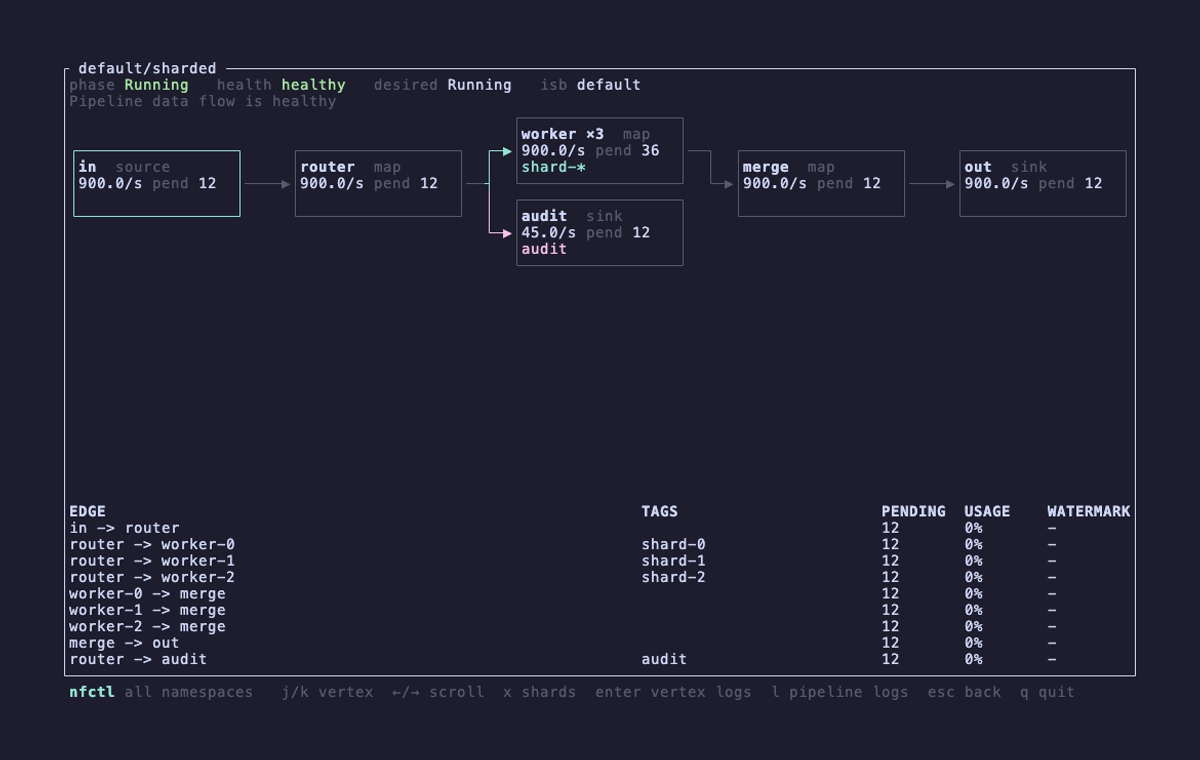
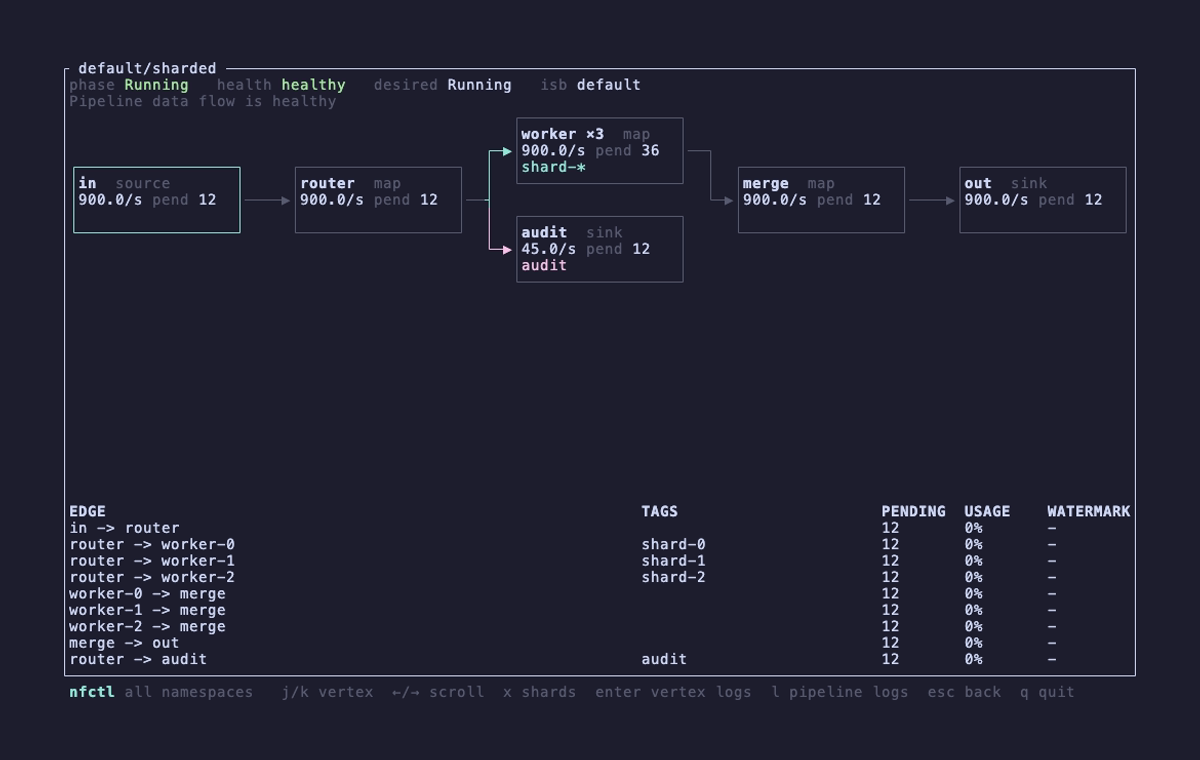
feat(graph,tui): one bus per source
Every branch out of a card leaves one column through its own junction,
whatever its colour; the bus takes the colour of the branch that reaches
furthest. Symmetric, and one junction on the source row.

diff --git a/crates/nfctl-tui/src/cards.rs b/crates/nfctl-tui/src/cards.rs
@@ -112,9 +112,10 @@ struct Canvas {
     dx: i32,
     cells: Vec<u8>,
     ink: Vec<Ink>,
-    /// Colour of the first edge to run vertically through a cell: where a
-    /// fork or crossing mixes colours, the edge that turns there wins.
-    turn: Vec<Ink>,
+    /// Colour of the longest vertical run through a cell, with its length:
+    /// where a bus mixes colours, the branch that reaches furthest wins, so a
+    /// trunk reads as one colour from the source to its far end.
+    turn: Vec<(Ink, i32)>,
     heads: Vec<Option<Ink>>,
 }
 
@@ -127,7 +128,7 @@ impl Canvas {
             dx,
             cells: vec![0; w * h],
             ink: vec![Ink::None; w * h],
-            turn: vec![Ink::None; w * h],
+            turn: vec![(Ink::None, 0); w * h],
             heads: vec![None; w * h],
         }
     }
@@ -137,7 +138,7 @@ impl Canvas {
         (x < self.w && y < self.h).then_some(y * self.w + x)
     }
 
-    fn set(&mut self, x: i32, y: i32, bits: u8, colour: Option<EdgeColour>) {
+    fn set(&mut self, x: i32, y: i32, bits: u8, colour: Option<EdgeColour>, reach: i32) {
         if let Some(i) = self.idx(x, y) {
             self.cells[i] |= bits;
             self.ink[i] = match self.ink[i] {
@@ -145,8 +146,8 @@ impl Canvas {
                 Ink::One(c) if c == colour => Ink::One(c),
                 _ => Ink::Mixed,
             };
-            if bits & (U | D) != 0 && self.turn[i] == Ink::None {
-                self.turn[i] = Ink::One(colour);
+            if bits & (U | D) != 0 && reach > self.turn[i].1 {
+                self.turn[i] = (Ink::One(colour), reach);
             }
         }
     }
@@ -165,7 +166,7 @@ impl Canvas {
         let (a, b) = (x0.min(x1), x0.max(x1));
         for x in a..=b {
             let bits = if x > a { L } else { 0 } | if x < b { R } else { 0 };
-            self.set(x, y, bits, colour);
+            self.set(x, y, bits, colour, 0);
         }
     }
 
@@ -173,7 +174,7 @@ impl Canvas {
         let (a, b) = (y0.min(y1), y0.max(y1));
         for y in a..=b {
             let bits = if y > a { U } else { 0 } | if y < b { D } else { 0 };
-            self.set(x, y, bits, colour);
+            self.set(x, y, bits, colour, b - a + 1);
         }
     }
 
@@ -221,7 +222,7 @@ impl Canvas {
                     let (ch, st) = if let Some(ink) = self.heads[i] {
                         ('▶', paint(ink))
                     } else {
-                        let ink = match (self.ink[i], self.turn[i]) {
+                        let ink = match (self.ink[i], self.turn[i].0) {
                             (Ink::Mixed, Ink::One(c)) => Ink::One(c),
                             (ink, _) => ink,
                         };

diff --git a/crates/nfctl-graph/src/layout/tracks.rs b/crates/nfctl-graph/src/layout/tracks.rs
@@ -1,10 +1,9 @@
 //! Pack the vertical runs in one gap onto tracks: two runs share a track when
-//! they do not overlap, or when they share a source or a target *and* a
-//! colour, so a tagged fan-out leaves as parallel coloured lines rather than
-//! one grey trunk. Then order the
+//! they do not overlap, or when they share a source or a target, so a fan-out
+//! is one bus with a junction per branch. Then order the
 //! tracks left to right so horizontals cross as few verticals as possible.
 
-use super::{EdgeColour, EdgeId};
+use super::EdgeId;
 
 #[derive(Debug, Clone, Copy)]
 pub(crate) struct Span {
@@ -15,7 +14,6 @@ pub(crate) struct Span {
     /// Row of the horizontal arriving from the left, and leaving to the right.
     pub y_in: i32,
     pub y_out: i32,
-    pub colour: Option<EdgeColour>,
     pub src: u32,
     pub dst: u32,
 }
@@ -33,13 +31,11 @@ pub(crate) fn pack(spans: &[Span]) -> (Vec<usize>, usize) {
         let s = spans[i];
         let compatible = |t: &Vec<Span>| {
             t.iter().all(|o| {
+                // One bus per source (and per target): every branch leaves the
+                // same column through its own junction, whatever its colour.
                 let related = o.src == s.src || o.dst == s.dst;
                 let disjoint = s.hi + 1 < o.lo || o.hi + 1 < s.lo;
-                // Two runs from one source (or into one target) that meet only
-                // on that shared row make a symmetric `┼` fork rather than two
-                // offset corners.
-                let touching = related && (s.hi == o.lo || o.hi == s.lo);
-                (related && o.colour == s.colour) || disjoint || touching
+                related || disjoint
             })
         };
         let slot = tracks.iter().position(compatible).unwrap_or_else(|| {

diff --git a/crates/nfctl-graph/src/layout/route.rs b/crates/nfctl-graph/src/layout/route.rs
@@ -139,7 +139,6 @@ fn spans(
     l: &Layered,
     geo: &Geometry,
     lane: &HashMap<NodeId, i32>,
-    colour: &[Option<EdgeColour>],
 ) -> Spans {
     let cols = l.columns.len();
     let mut per_gap: Vec<Vec<Span>> = vec![Vec::new(); cols.saturating_sub(1)];
@@ -161,7 +160,6 @@ fn spans(
                     hi: y0.max(y1),
                     y_in: y0,
                     y_out: y1,
-                    colour: colour[s.edge.0 as usize],
                     src: key(s.from),
                     dst: key(s.to),
                 },
@@ -185,7 +183,6 @@ fn spans(
                     hi: ly,
                     y_in: yu,
                     y_out: ly,
-                    colour: colour[ei],
                     src: LANE_OUT,
                     dst: e.from.0,
                 },
@@ -200,7 +197,6 @@ fn spans(
                     hi: ly,
                     y_in: ly,
                     y_out: yv,
-                    colour: colour[ei],
                     src: e.to.0,
                     dst: LANE_IN,
                 },
@@ -357,7 +353,7 @@ pub(crate) fn build(
     let card_w = i32::from(opts.card_w);
     let geo = geometry(layered, opts);
     let lane = lanes(g, ranked, geo.cards_h);
-    let sp = spans(g, ranked, layered, &geo, &lane, edge_colour);
+    let sp = spans(g, ranked, layered, &geo, &lane);
     let margin = if g
         .edges
         .iter()

diff --git a/docs/rendering.md b/docs/rendering.md
@@ -48,11 +48,12 @@ second route with a different colour sets it to `Mixed`, which paints dim.
 An untagged edge has no colour and paints dim too, so `Mixed` and
 "untagged" look the same.
 
-One exception. The cell also remembers the colour of the first route that
-ran *vertically* through it (`turn`). When a cell ends up `Mixed`, it paints
-in that colour instead. The effect at a fork: the horizontal trunk arriving
-from the card is shared by every branch and goes grey, but the junction cell
-where the first branch turns takes that branch's colour rather than grey.
+One exception. The cell also remembers the colour of the *longest* vertical
+run through it (`turn`). When a cell ends up `Mixed`, it paints in that
+colour instead. The effect on a fan-out bus: the short horizontal stub from
+the card is shared by every branch and stays grey, but the bus itself takes
+the colour of the branch that reaches furthest, so it reads as one line from
+the source to its far end with the nearer branches peeling off it.
 
 Arrowheads carry their own ink, set by the same rule (`Mixed` if two edges
 of different colour end on one head, which is what a fan-in does).
@@ -70,14 +71,14 @@ vertical run. `tracks::pack` assigns those runs to tracks, one column of
 cells each, in `(lo, hi, edge)` order. A run may join an existing track when,
 against every run already there, one of these holds:
 
-1. they share a source or share a target, **and** have the same colour;
-2. their rows are disjoint (with one row of clearance);
-3. they share a source or a target and touch only on the shared row.
+1. they share a source or share a target, whatever their colours;
+2. their rows are disjoint (with one row of clearance).
 
-Rule 1 is the bundle: shards fanning out from one card with no tags leave as
-one vertical. Rule 2 is plain packing. Rule 3 exists so that a source sitting
-between two targets forks symmetrically through one cell instead of drawing
-two offset corners.
+Rule 1 is the bus: every branch out of one card leaves the same column
+through its own junction (`├`, or `┼` when a straight edge passes), and every
+edge into one card joins the same column before its single head. Rule 2 is
+plain packing. A straight edge (source and target on the same row) takes no
+track at all.
 
 Gap width is `tracks + 2`, minimum 5, and the tracks sit centred in the gap.
 Tracks are then ordered left to right by an adjacent-swap descent over the
@@ -101,12 +102,12 @@ share one track by rule 3:
    └─▶ all-sink       yellow vertical and head
 ```
 
-The two cells of trunk before the `┼` are `Mixed`; the `┼` itself takes the
-colour of the first edge to run vertically through it.
+The two cells of trunk before the `┼` are `Mixed`; the `┼` and the vertical
+take the colour of the longest run through them.
 
 `router` in the sharded pipeline fans out to the collapsed `worker` group
 (untagged) and to `audit` (tagged). Two runs, no straight edge, one shared
-track by rule 3, and the junction is `L U D`:
+track by rule 1, and the junction is `L U D`:
 
 ```
    ┌─▶ worker x3      dim
@@ -116,10 +117,8 @@ track by rule 3, and the junction is `L U D`:
 
 ## What this cannot draw
 
-A cell has one colour. Wherever two edges with different tags share cells,
-those cells go grey, so a trunk leaving a card that carries several tag
-combinations is grey until the branches part. The turn rule rescues one
-cell of that, not the trunk. Rule 1 avoids the problem when the colours
-agree; when they do not, the choice is between a grey trunk and a wider gap
-with one vertical per colour. That trade is written up in the trunk options
-note on TIM-21.
+A cell has one colour. A bus carrying several tag combinations shows the
+colour of its furthest branch, not all of them; only from each junction
+outward is a branch in its own colour. The alternatives (a wider gap with one
+vertical per colour, or one exit row per edge) are written up in the trunk
+options note on TIM-21; the single bus was chosen for symmetry.
